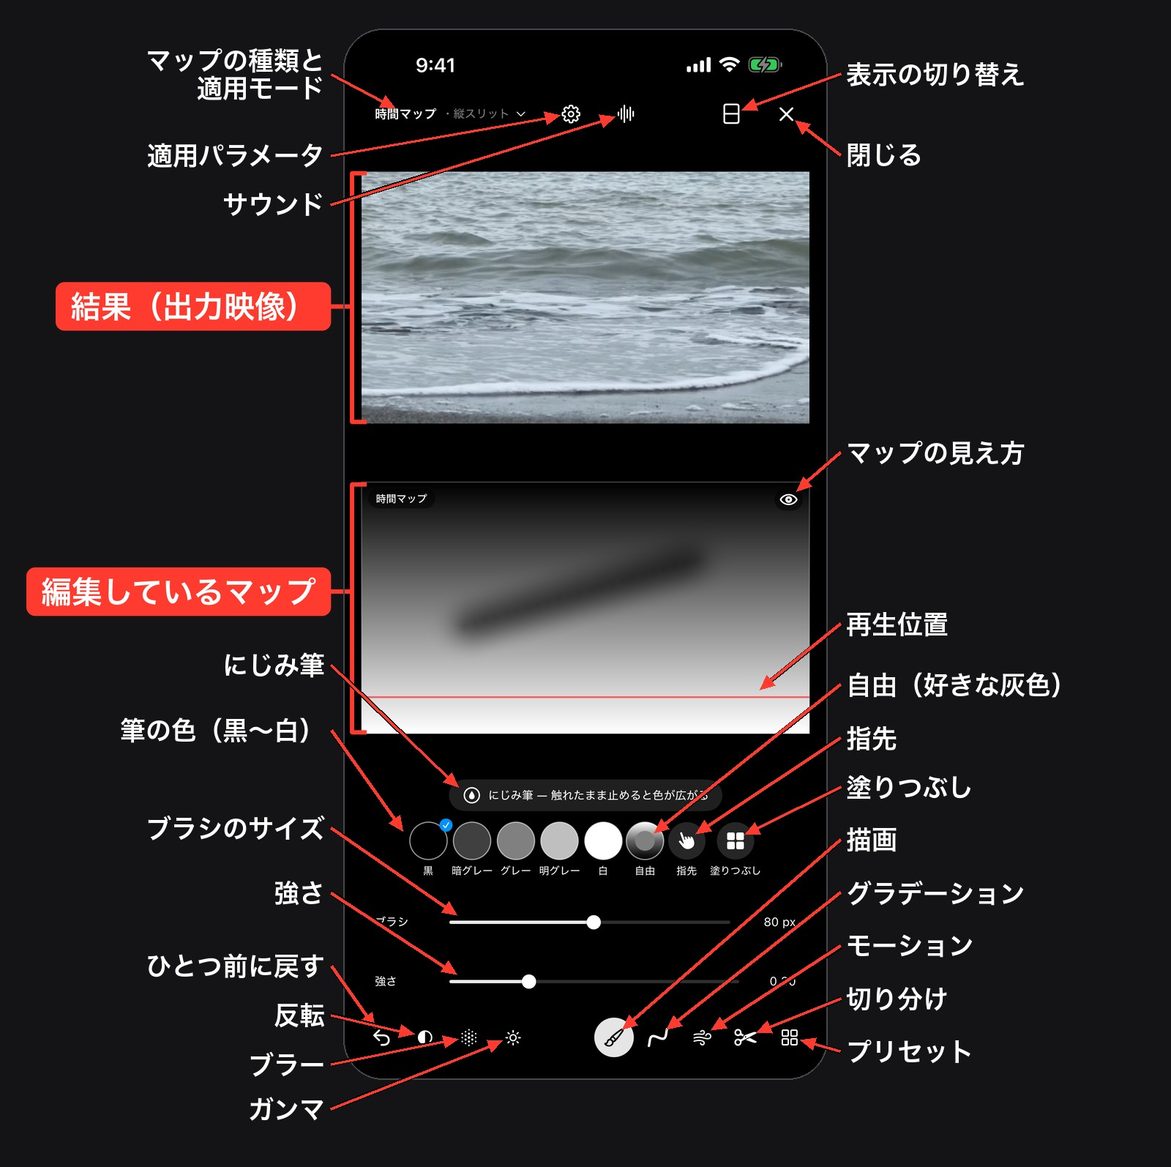
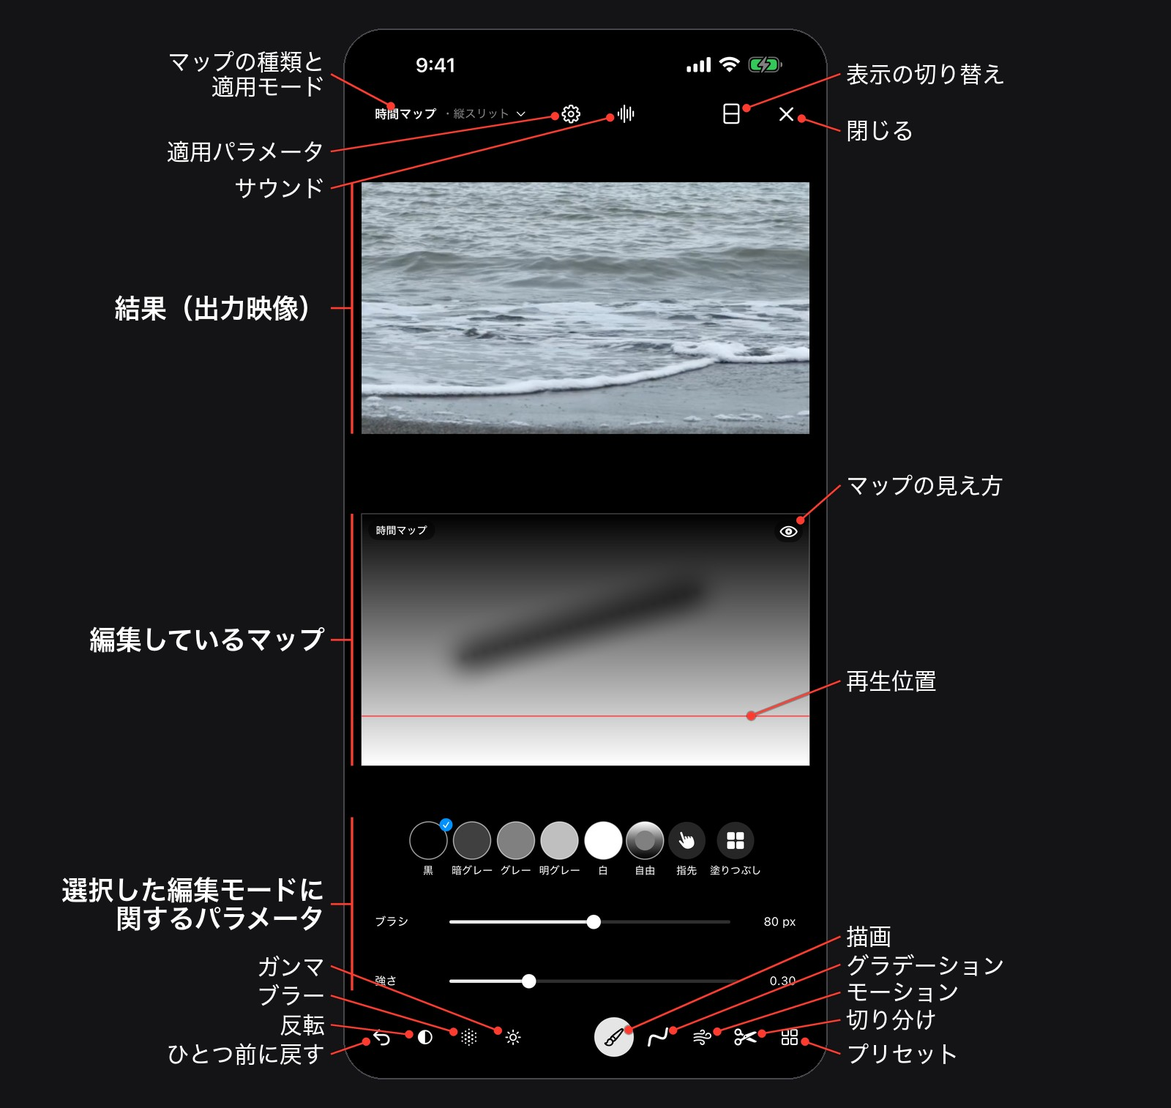
図を控えめに描き直し、呼び名を統一、にじみ筆と縦長の素材の説明を更新（次の版の配信後に公開）

Changed region(s): [[0.0, 0.031, 0.9062, 0.9624], [0.7812, 0.4346, 0.8438, 0.4657], [0.3438, 0.031, 0.375, 0.0621]]

diff --git a/index.html b/index.html
@@ -31,7 +31,7 @@
 </p>
 <h3>マップをつくる</h3>
 <ul>
-  <li><img class="ui" src="icons/draw.svg" alt=""><strong>描画</strong> — 指でなぞって時間の流れを描く。5段階の濃淡と自由な灰色、スポイト、にじみ筆、指先ツール</li>
+  <li><img class="ui" src="icons/draw.svg" alt=""><strong>描画</strong> — 指でなぞって時間の流れを描く。5段階の濃淡と自由な灰色、スポイト、指先ツール。触れたまま止めると色がにじむ</li>
   <li><img class="ui" src="icons/gradient.svg" alt=""><img class="ui" src="icons/preset.svg" alt=""><strong>グラデーション生成・プリセット</strong> — 規則的なパターンから始める</li>
   <li><img class="ui" src="icons/motion.svg" alt=""><strong>モーション解析</strong> — 映像自身の動きから自動で時間の形をつくる</li>
   <li><img class="ui" src="icons/cut.svg" alt=""><strong>切り分け</strong> — マップを線で2つに分けてずらし、時間のずれをつくる</li>
@@ -59,16 +59,16 @@
 
 <h2>基本の使い方</h2>
 
-<figure class="guide"><a href="shots/guide/top_ja.jpg"><img src="shots/guide/top_ja.jpg" alt="トップ画面の各部の名前を赤い矢印で示した図。入力映像、使用範囲のバー、マップ画像と道具、出力映像が並んでいる" loading="lazy"></a><figcaption>トップ画面（押すと大きく開きます）</figcaption></figure>
+<figure class="guide"><a href="shots/guide/top_ja.jpg"><img src="shots/guide/top_ja.jpg" alt="トップ画面の各部の名前を赤い線で示した図。入力映像、使用範囲のバー、マップ画像と道具、出力映像が並んでいる" loading="lazy"></a><figcaption>トップ画面（押すと大きく開きます）</figcaption></figure>
     <h3>1. 画面の見かた</h3>
     <p>
-    トップ画面は上から <strong>入力映像</strong>・<strong>マップ画像</strong>・<strong>出力映像</strong> の3段です。
+    トップ画面は上から <strong>入力映像</strong>・<strong>マップ画像</strong>・<strong>出力映像</strong> の3段です（縦長の素材では、上の段に入力映像と出力映像、下の段にマップ画像と立体グラフが並びます）。
     同じ素材が、マップによってどう変わったかをその場で見比べられます。
     </p>
     <p>
     入力映像の下のバーは<strong>使用範囲</strong>を兼ねています。両端の白いハンドルで素材のどこを使うかを決め、
     長押ししてから引くと長さを保ったまま範囲をずらせます。ハンドルを動かしている間は、入力映像にその端の瞬間が映ります。
-    右上のスピーカー<img class="ui" src="icons/speaker.svg" alt="">で音を切り替えます。入力は素材そのままの音、出力は時間操作を受けた音で、鳴るのはどちらか一方だけです。
+    右上の音声出力切り替え<img class="ui" src="icons/speaker.svg" alt="">で、鳴らす音を選びます。入力は素材そのままの音、出力は時間操作を受けた音で、鳴るのはどちらか一方だけです。
     </p>
     <p>
     入力・出力それぞれの右下のボタン<img class="ui" src="icons/fullscreen.svg" alt="">で<strong>全画面表示</strong>になります。
@@ -108,13 +108,13 @@
   
 
 
-<figure class="guide"><a href="shots/guide/monitor_ja.jpg"><img src="shots/guide/monitor_ja.jpg" alt="モニタービューの各部の名前を赤い矢印で示した図。出力映像、時間マップ、立体グラフを並べている" loading="lazy"></a><figcaption>モニタービュー（押すと大きく開きます）</figcaption></figure>
+<figure class="guide"><a href="shots/guide/monitor_ja.jpg"><img src="shots/guide/monitor_ja.jpg" alt="モニタービューの各部の名前を赤い線で示した図。出力映像、時間マップ、立体グラフを並べている" loading="lazy"></a><figcaption>モニタービュー（押すと大きく開きます）</figcaption></figure>
 <div class="gallery">
   <figure><img src="shots/v15/ja/input_full.png" alt="入力映像の全画面表示。下に読み込みの情報、使用範囲のバー、秒数が並ぶ" loading="lazy"><figcaption>入力の全画面。情報をタップすると読み込みの設定が開きます</figcaption></figure>
   <figure><img src="shots/v16/ja/volume.png" alt="出力の全画面で立体グラフをオンにしたところ。上に出力映像、下に素材の箱の中で斜めに傾いた面と秒数の目盛り" loading="lazy"><figcaption>立体グラフ。縦スリット×時間マップの「左→右」では、左ほど前の瞬間を映すので面が斜めに傾きます</figcaption></figure>
 </div>
 
-<figure class="guide"><a href="shots/guide/editor_ja.jpg"><img src="shots/guide/editor_ja.jpg" alt="編集画面の各部の名前を赤い矢印で示した図。上から適用パラメータなどのボタン、結果の映像、編集するマップ、筆の色とスライダー、手法のボタン" loading="lazy"></a><figcaption>編集画面（押すと大きく開きます）</figcaption></figure>
+<figure class="guide"><a href="shots/guide/editor_ja.jpg"><img src="shots/guide/editor_ja.jpg" alt="編集画面の各部の名前を赤い線で示した図。上から適用パラメータなどのボタン、結果の映像、編集するマップ、筆の色とスライダー、手法のボタン" loading="lazy"></a><figcaption>編集画面（押すと大きく開きます）</figcaption></figure>
     <h3>2. マップを描く</h3>
     <p>
     マップ画像の右下にある鉛筆アイコン<img class="ui" src="icons/map_edit.svg" alt="">、出力映像のタップ、または画面下の<img class="ui" src="icons/dock_edit.svg" alt=""><strong>「編集」</strong>から編集画面に入ります。
@@ -124,9 +124,9 @@
     ちょっとした描き足しなら、トップ画面のマップ画像をそのままなぞっても描けます（赤い線の近くを触ると、再生位置の移動になります）。
     左下の筆のボタン<img class="ui" src="icons/map_pencil.svg" alt="">で黒〜白の 5 段階と指先を選び、隣の<strong>プリセット</strong><img class="ui" src="icons/map_preset.svg" alt="">のボタンでは、黒・グレー・白の一色や、上→下・下→上・左→右・右→左のグラデーションでマップ全体を塗り直せます。
     その隣の<strong>グラデーション</strong><img class="ui" src="icons/map_wave.svg" alt="">のボタンを押すと、マップが縞のグラデーションになり、なぞって動かす・ピンチで周期・2 本指で回して角度を、その場で変えられます（✓ で終わります）。
-    続く<strong>ぼかし</strong><img class="ui" src="icons/map_blur.svg" alt="">は押すたびにマップを 1 段ぼかし、<strong>反転</strong><img class="ui" src="icons/map_invert.svg" alt="">は明暗を入れ替えます。レートマップでは<strong>モーションから生成</strong><img class="ui" src="icons/motion.svg" alt="">、空間マップでは<strong>切り分け</strong><img class="ui" src="icons/cut.svg" alt="">も並びます（はさみを押してマップを横切る線を引き、分かれた領域をドラッグでずらして、上に出る「ずらしたら、ここをタップで確定」を押します）。
+    続く<strong>ブラー</strong><img class="ui" src="icons/map_blur.svg" alt="">は押すたびにマップに 1 段ブラーをかけ、<strong>反転</strong><img class="ui" src="icons/map_invert.svg" alt="">は明暗を入れ替えます。レートマップでは<strong>モーションから生成</strong><img class="ui" src="icons/motion.svg" alt="">、空間マップでは<strong>切り分け</strong><img class="ui" src="icons/cut.svg" alt="">も並びます（はさみを押してマップを横切る線を引き、分かれた領域をドラッグでずらして、上に出る「ずらしたら、ここをタップで確定」を押します）。
     描いたあとは右下に「ひとつ前に戻す」<img class="ui" src="icons/undo.svg" alt="">が出ます。
-    編集画面のマップの右上にある目のボタン<img class="ui" src="icons/eye.svg" alt="">で、マップの見せ方を<strong>等高線と数値</strong>（同じ明るさを線で結び、何秒・どの速さ・素材のどの位置（px）かを数字で示す）に変えられます。線の色はマップの種類ごとで、時間マップは白、レートマップは逆再生が青・止まるとグレー・順再生が黄、空間マップは素材の左端が緑・右端が赤で、レートマップと空間マップは線と線の間もその色で塗り分けます。数字の所では線が途切れ、単位は一番下の数字にだけ付きます。見せ方だけで、マップの中身は変わりません。
+    編集画面のマップの右上にある目のボタン<img class="ui" src="icons/eye.svg" alt="">で、マップの見え方を<strong>等高線と数値</strong>（同じ明るさを線で結び、何秒・どの速さ・素材のどの位置（px）かを数字で示す）に変えられます。線の色はマップの種類ごとで、時間マップは白、レートマップは逆再生が青・止まるとグレー・順再生が黄、空間マップは素材の左端が緑・右端が赤で、レートマップと空間マップは線と線の間もその色で塗り分けます。数字の所では線が途切れ、単位は一番下の数字にだけ付きます。見え方が変わるだけで、マップの中身は変わりません。
     スリットのときは、同じ目のボタンで<strong>読み取り値</strong>をオンにすると、再生位置に細い白い線が出て、スリットに沿った 7 本（縦長の映像の縦スリットでは 5 本）の薄い線がマップの縁から少しはみ出し、その先のマップの下に、白い線と交わる所がいま映している値を示します（読み取り値）。上から、素材の何秒か（白）と、そこでの再生レート（1 で等速、0 で止まる、マイナスは逆再生。青〜グレー〜黄）。空間マップを描き換えていれば、素材のどの位置か（px。緑〜赤）が 3 段目に加わります。色は等高線と同じです。数字の右（横スリットは数字の上）には、どの段が何の数字か（時間位置・再生レート・空間位置）を書き添えます。白い線の先には出力の何秒目かも出ます。ライブでは時間マップのとき何秒前かを、レートマップのときはマップから読んだレートを示します。縦スリットの時間グラフは、出力の時間を縦（上が始まり）に取るようにしました。読み取り値をオンにすると、トップ画面でも、出力がいま映している素材の時刻の範囲が入力映像のバーに赤く出ます（普通の再生では点、時間が広がる所では横に伸びた帯。入力映像の全画面表示では出しません）。サーフェスでも読み取り値をオンにすると、画面全体が映している範囲（立体グラフの赤い線と同じ）が入力映像のバーに赤い帯で出ます。入力の再生位置はバーの緑の縦線です。
     </p>
     <p>
@@ -291,7 +291,7 @@ iOS の「設定」→「Time Flow」→「写真」から変更できます。
 
 <h3>音はどこから鳴っていますか</h3>
 <p>
-映像の右上にあるスピーカーで切り替えます。
+映像の右上にある音声出力切り替えで選びます。
 <strong>出力</strong>を選ぶと、読み込んだ動画の音声が映像と同じ時間操作を受けて鳴ります。
 <strong>入力</strong>を選ぶと、素材そのままの音が等速で鳴ります。
 鳴るのはどちらか一方だけで、同時には鳴りません。音声を持たない動画では無音になります。
@@ -373,7 +373,7 @@ thought you knew.
 </p>
 <h3>Making a map</h3>
 <ul>
-  <li><img class="ui" src="icons/draw.svg" alt=""><strong>Draw</strong> &mdash; trace with a finger to draw the flow of time. Five brush tones, a bleed brush, and a smudge tool</li>
+  <li><img class="ui" src="icons/draw.svg" alt=""><strong>Draw</strong> &mdash; trace with a finger to draw the flow of time. Five brush tones and a smudge tool; hold still and the tone bleeds outward</li>
   <li><img class="ui" src="icons/gradient.svg" alt=""><img class="ui" src="icons/preset.svg" alt=""><strong>Gradients and presets</strong> &mdash; start from a regular pattern</li>
   <li><img class="ui" src="icons/motion.svg" alt=""><strong>From motion</strong> &mdash; build the shape of time automatically from the movement in the clip</li>
   <li><img class="ui" src="icons/cut.svg" alt=""><strong>Cut &amp; slide</strong> &mdash; split the map along a line and slide the pieces to make time slip</li>
@@ -448,12 +448,12 @@ makes the app usable for installation and live work as well as for producing fil
 
 <h2 id="started-en">Getting started</h2>
 
-<figure class="guide"><a href="shots/guide/top_en.jpg"><img src="shots/guide/top_en.jpg" alt="The main screen with each part named by red arrows: the input video, the range bar, the map and its tools, and the output video" loading="lazy"></a><figcaption>The main screen (tap to enlarge)</figcaption></figure>
+<figure class="guide"><a href="shots/guide/top_en.jpg"><img src="shots/guide/top_en.jpg" alt="The main screen with each part named by red lines: the input video, the range bar, the map and its tools, and the output video" loading="lazy"></a><figcaption>The main screen (tap to enlarge)</figcaption></figure>
     <h3>1. Reading the main screen</h3>
     <p>
     With landscape footage the screen stacks <strong>Input</strong> (your clip, untouched), the
     <strong>map</strong>, and <strong>Output</strong> (the result, playing live) from top to bottom; with
-    portrait footage Input and Output sit side by side and the map goes below them. Turn the device sideways and
+    portrait footage Input and Output sit side by side, with the map and the 3D plot below them. Turn the device sideways and
     the bottom bar moves to the right edge, with the playback bars laid over the videos.
     </p>
     <p>
@@ -464,10 +464,10 @@ makes the app usable for installation and live work as well as for producing fil
     use are printed underneath.
     </p>
     <p>
-    A speaker button <img class="ui" src="icons/speaker.svg" alt=""> sits at the top right of each video, and only one of the two sounds at a time. A
+    An <strong>audio on / off</strong> button <img class="ui" src="icons/speaker.svg" alt=""> sits at the top right of each video, and only one of the two sounds at a time. A
     <strong>rotate button</strong> <img class="ui" src="icons/rotate.svg" alt=""> sits at the bottom left of the Input tile: each tap turns the source
     another 90&deg; and re-imports the clip, which takes as long as a reload but leaves your maps alone. The
-    button at the bottom right of each video (beside the speaker when the device is sideways) opens it
+    button at the bottom right of each video (beside the audio button when the device is sideways) opens it
     <strong>full screen</strong> <img class="ui" src="icons/fullscreen.svg" alt=""> (see below).
     </p>
     <p>
@@ -533,7 +533,7 @@ Opened from the 3D plot on the main screen, it starts with the 3D plot alone. On
 Pro Max and iPad) a button at the bottom right of each pane shows that one alone. The Monitor view is for looking
 only: export from <strong>Export</strong> on the main screen.
 </p>
-<figure class="guide"><a href="shots/guide/monitor_en.jpg"><img src="shots/guide/monitor_en.jpg" alt="The Monitor view with each part named by red arrows: the output video, the time map and the 3D plot side by side" loading="lazy"></a><figcaption>The Monitor view (tap to enlarge)</figcaption></figure>
+<figure class="guide"><a href="shots/guide/monitor_en.jpg"><img src="shots/guide/monitor_en.jpg" alt="The Monitor view with each part named by red lines: the output video, the time map and the 3D plot side by side" loading="lazy"></a><figcaption>The Monitor view (tap to enlarge)</figcaption></figure>
 <div class="gallery">
   <figure><img src="shots/v15/en/input_full.png" alt="Full-screen Input with the loading information line, the range bar and the seconds in use" loading="lazy"><figcaption>Full-screen Input: tap the information line to open Video Loading</figcaption></figure>
 </div>
@@ -576,15 +576,15 @@ mode is explained in <a href="time.html#volume-en">How time processing works</a>
 </p>
 <figure><img src="shots/v16/en/volume.png" alt="Full-screen Output with the 3D plot on: the output picture above, and below it a tilted surface carrying the picture inside a box marked in seconds" loading="lazy"><figcaption>The 3D plot. With a Left &rarr; right time map under a vertical slit, the left of the picture shows earlier moments, so the surface is tilted</figcaption></figure>
 
-<figure class="guide"><a href="shots/guide/editor_en.jpg"><img src="shots/guide/editor_en.jpg" alt="The editor with each part named by red arrows: the buttons along the top, the result, the map you edit, brush tones and sliders, and the method buttons" loading="lazy"></a><figcaption>The editor (tap to enlarge)</figcaption></figure>
+<figure class="guide"><a href="shots/guide/editor_en.jpg"><img src="shots/guide/editor_en.jpg" alt="The editor with each part named by red lines: the buttons along the top, the result, the map you edit, brush tones and sliders, and the method buttons" loading="lazy"></a><figcaption>The editor (tap to enlarge)</figcaption></figure>
     <h3>3. Drawing or generating a map</h3>
     <p>
     The editor opens full screen. The row across the top carries the map-and-mode label at the left, the gear <img class="ui" src="icons/map_gear.svg" alt=""> (<strong>Parameters</strong>), the waveform (<strong>Sound</strong>), and an <strong>X</strong> at the far
     right that closes the editor. The layout menu <img class="ui" src="icons/layout.svg" alt=""> sits at the bottom left and the method buttons at the bottom right, on either side of the tools. Nothing needs saving &mdash; the map is already applied.
     </p>
     <p>
-    Trace the map with a finger or Apple&nbsp;Pencil. The brush button opens a palette holding the
-    <strong>Bleed brush</strong> toggle, <strong>Fill</strong> <img class="ui" src="icons/fill.svg" alt="">, five tones &mdash; <strong>Black</strong>,
+    Trace the map with a finger or Apple&nbsp;Pencil. The brush button opens a palette holding
+    <strong>Fill</strong> <img class="ui" src="icons/fill.svg" alt="">, five tones &mdash; <strong>Black</strong>,
     <strong>Dark grey</strong>, <strong>Grey</strong>, <strong>Light grey</strong>, <strong>White</strong>
     &mdash; <strong>Custom</strong> <img class="ui" src="icons/custom.svg" alt="">, which opens a horizontal slider for any grey, black on the left and white on the right, and shows what that grey means in
     seconds or speed, the <strong>Eyedropper</strong> <img class="ui" src="icons/eyedropper.svg" alt=""> beside that slider, which picks up the grey where you touch the map, and <strong>Smudge</strong> <img class="ui" src="icons/smudge.svg" alt="">. Brush size runs 1&ndash;300&nbsp;px, with Strength
@@ -837,8 +837,8 @@ tools and were committed with an <strong>Apply adjustments</strong> button; that
 <p>
 With Apple&nbsp;Pencil, pressure scales the brush. A finger always counts as an <em>average</em> press, so a
 Pencil can go both thinner than a finger stroke (a light touch narrows the brush to roughly a sixth of the set
-size) and thicker (hard pressure widens it to about one and a half times). The <strong>Bleed brush</strong>
-exists for the finger case: turn it on, hold still, and the app keeps laying down tone at that point every
+size) and thicker (hard pressure widens it to about one and a half times). The brush also
+bleeds, which helps with a finger: hold still and the app keeps laying down tone at that point every
 display frame while the affected radius grows &mdash; about three times the brush size after four seconds or
 so. Each deposit is very light, so the result is a soft pool of tone spreading outward rather than a hard dot.
 Double-tapping the side of an Apple&nbsp;Pencil opens and closes the palette, so you can change tone without
@@ -1023,9 +1023,9 @@ backwards, a region racing ahead climbs in pitch. Nothing is synthesised from sc
 clip&rsquo;s own recording, read at a different place and a different speed for each region.
 </p>
 
-<h3>The two speaker buttons</h3>
+<h3>The two audio buttons</h3>
 <p>
-A speaker button sits at the top right of each video. The one over the input turns on
+An audio on / off button sits at the top right of each video. The one over the input turns on
 <strong>Source audio</strong>; the one over the output turns on <strong>Result audio</strong>.
 <strong>Only one of the two plays at a time</strong> &mdash; switching on either switches the other off, since
 both are built from the same recording and layering them only doubles it.
@@ -1068,7 +1068,7 @@ untouched map therefore sounds like the recording itself.</li>
 <p>
 Open the <strong>Sound</strong> panel with the waveform icon at the top of the editor. The segmented control at
 the top of it chooses <strong>Off</strong>, <strong>Granular</strong>, or <strong>Rate playback</strong>
-&mdash; the same two methods the output speaker toggles between &mdash; and its <strong>i</strong> explains both.
+&mdash; the same two methods the output audio button toggles between &mdash; and its <strong>i</strong> explains both.
 Both read the recording at the region&rsquo;s rate, so in both of them speed shows up as pitch, negative speeds play
 backwards, and a region at a dead stop is silent; what differs is how often a voice is pulled back to where the
 picture says it should be.
@@ -1133,12 +1133,12 @@ the preview &mdash; method, grain length, stereo width, reverb, voice count and 
 <p>
 Two things will give you a silent file. If <strong>Result audio is off</strong> when you export, nothing is
 written. And because turning on <strong>Source audio</strong> switches the result off, exporting while you are
-monitoring the untouched material also produces silence. Turn the output speaker back on before you export.
+monitoring the untouched material also produces silence. Turn the output audio back on before you export.
 </p>
 
 <h3>If you hear nothing</h3>
 <ul>
-<li><strong>The clip has no audio track.</strong> The panel says so, and the speaker buttons stay dimmed. Clips
+<li><strong>The clip has no audio track.</strong> The panel says so, and the audio buttons stay dimmed. Clips
 rendered out of editing apps often arrive without one.</li>
 <li><strong>The audio was skipped at import.</strong> Loading the audio track is the last stage of loading a
 video. Cancel during it and the app tells you it has the video but not the sound; load the clip again to get
@@ -1666,8 +1666,8 @@ and the render is gone. Grant the permission in iOS <strong>Settings &rarr; Time
 
 <h3>Where is the sound coming from?</h3>
 <p>
-The speaker over <strong>Output</strong> is already on when a clip with sound loads, playing the clip&rsquo;s own
-audio put through the same time manipulation as the picture. The speaker over <strong>Input</strong> is off
+The audio button over <strong>Output</strong> is already on when a clip with sound loads, playing the clip&rsquo;s own
+audio put through the same time manipulation as the picture. The audio button over <strong>Input</strong> is off
 until you turn it on, and turning it on switches the output one off &mdash; only one plays at a time. See
 <a href="#sound-en">Sound</a> for the methods, reverb and voices.
 </p>
@@ -1688,7 +1688,7 @@ treated as an extended desktop and the second screen is never created.
 Both are supported, and the iPad is the better instrument: the map and the two videos all fit at a workable size
 at once. Apple&nbsp;Pencil adds real pressure &mdash; a finger always counts as an average press, so a Pencil
 goes both thinner (about a sixth) and thicker (about one and a half times) than a finger stroke &mdash; and a
-double-tap on its side opens and closes the brush palette. The <strong>Bleed brush</strong> covers the other
+double-tap on its side opens and closes the brush palette. The brush covers the other
 case: hold still with a fingertip and tone keeps building and spreading outward.
 </p>
 
